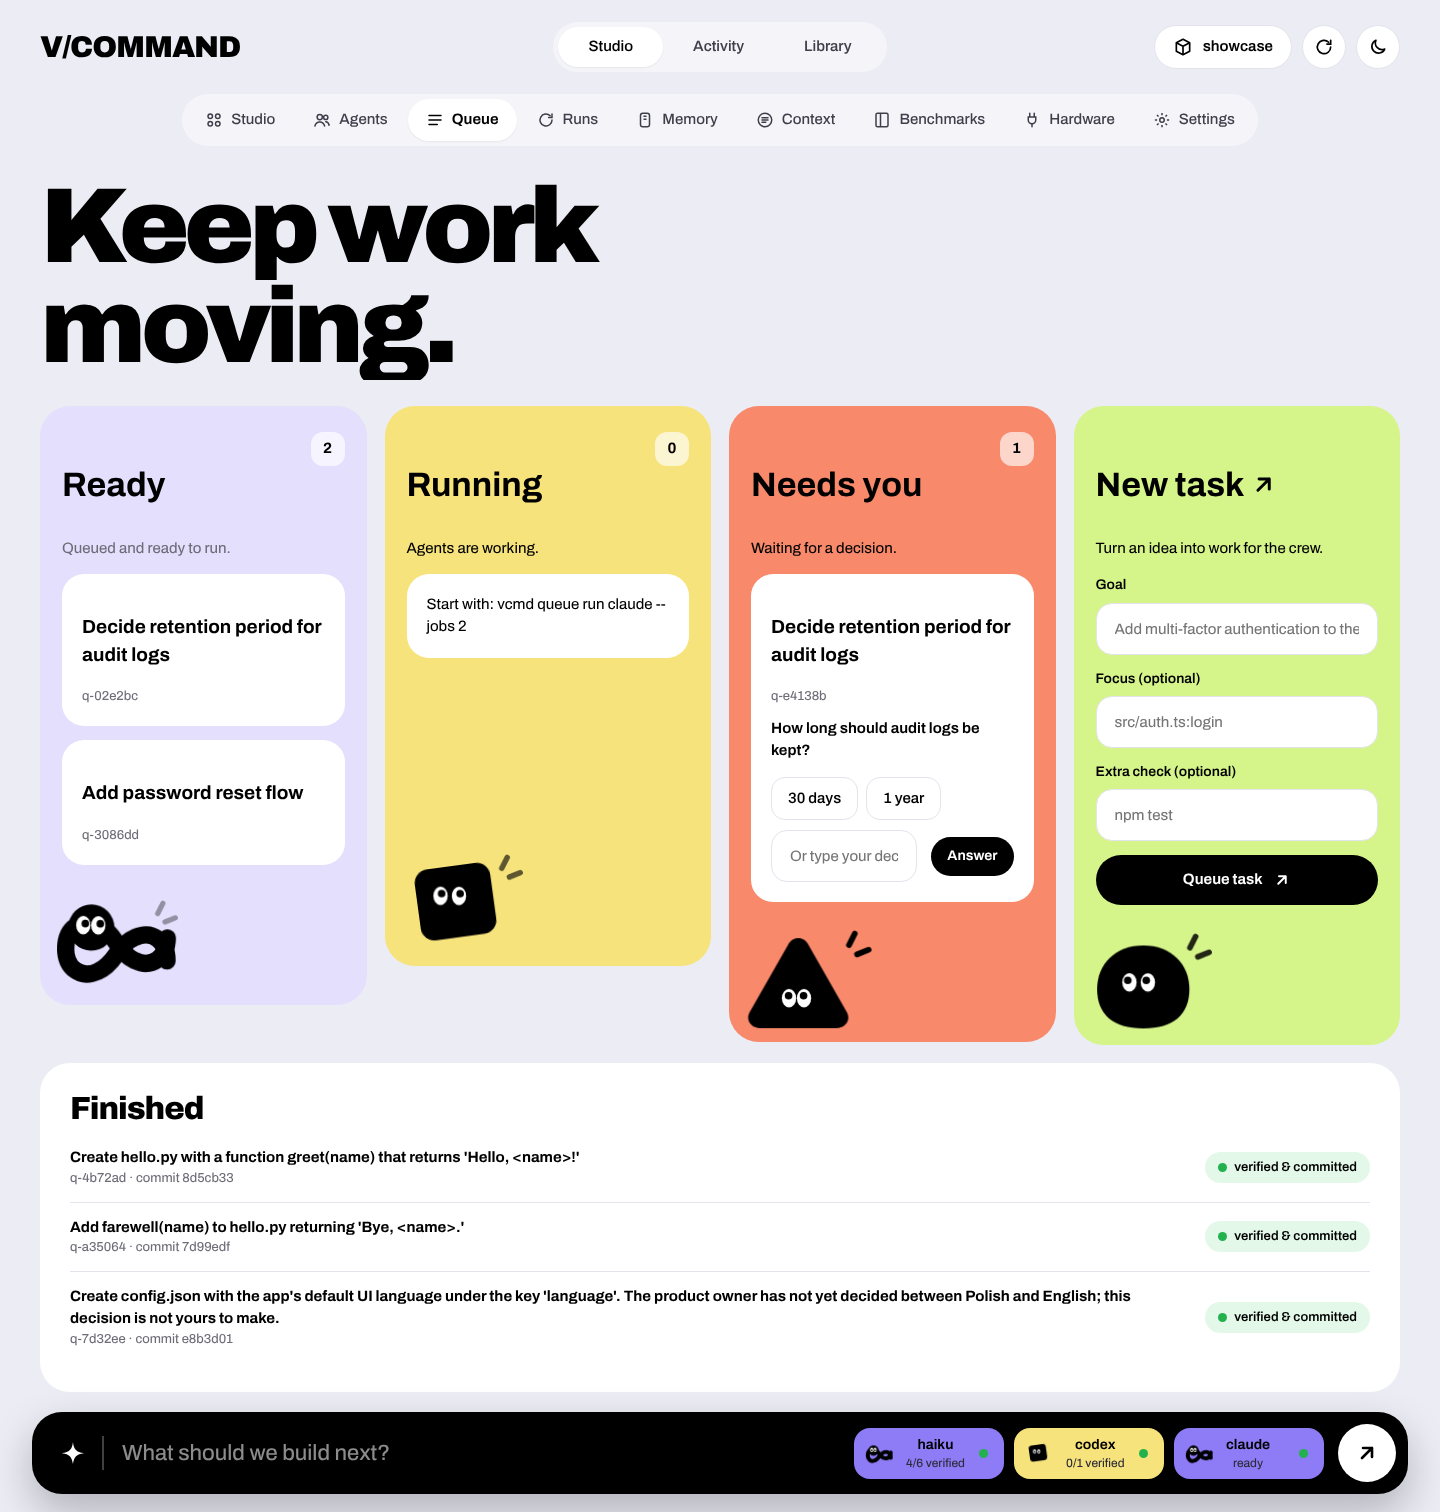
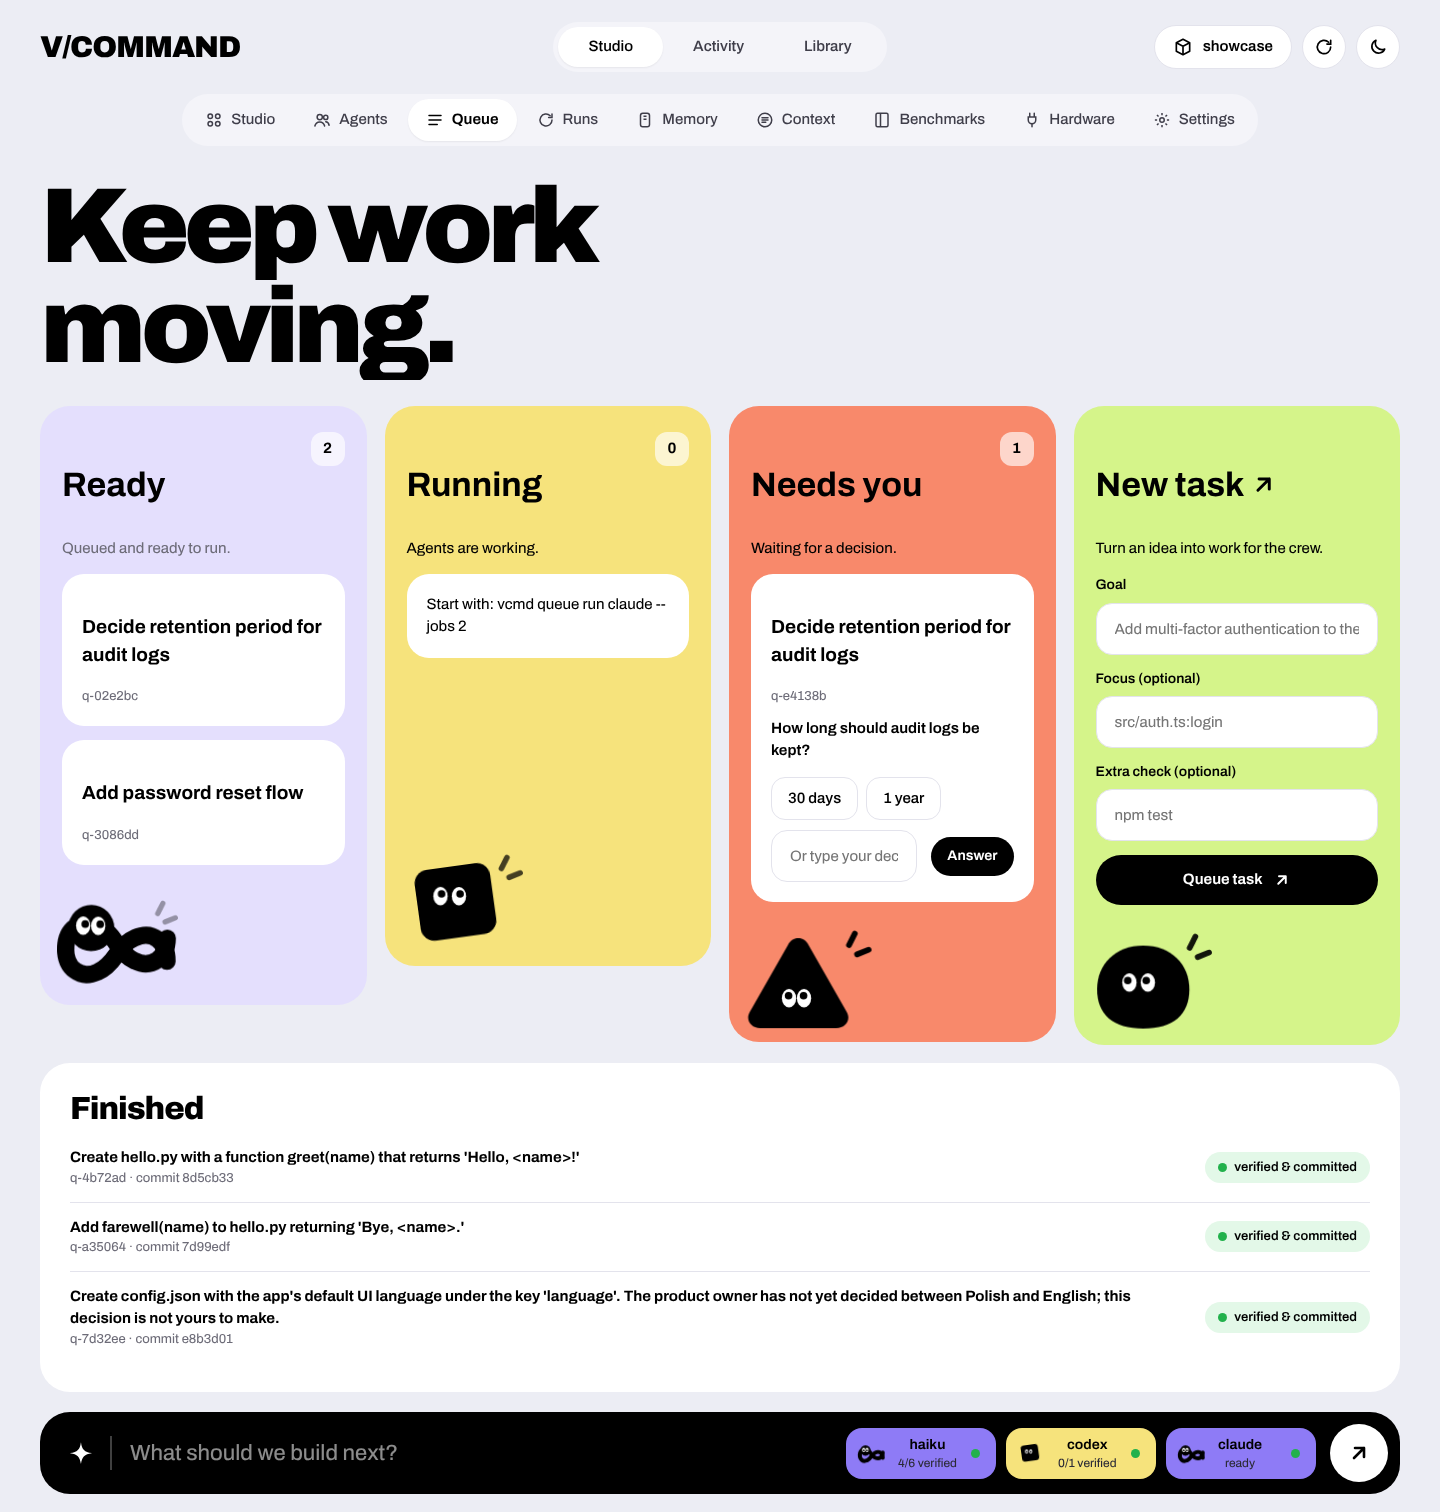
Dashboard: command bar is part of the page layout
The bar sits after the content with the same gutter as the cards (and
at the window bottom on short pages) instead of floating over cards.

Claude-Session: https://claude.ai/code/session_01919NHXcXeBBUUtrtmPhTqS

Changed region(s): [[0.0, 0.9325, 1.0, 1.0]]

diff --git a/src/vcommand/dashboard.html b/src/vcommand/dashboard.html
@@ -37,7 +37,7 @@
 * { box-sizing: border-box; }
 html { background: var(--page); }
 body { margin: 0; background: var(--page); color: var(--ink); font: 450 15px/1.45 "Archivo", system-ui, -apple-system, "Segoe UI", sans-serif;
-       -webkit-font-smoothing: antialiased; padding-bottom: 120px; }
+       -webkit-font-smoothing: antialiased; display: flex; flex-direction: column; min-height: 100vh; min-height: 100dvh; }
 button, input, select { font: inherit; color: inherit; }
 button { cursor: pointer; border: 0; background: none; }
 :focus-visible { outline: 3px solid var(--violet); outline-offset: 2px; border-radius: 10px; }
@@ -72,7 +72,7 @@ nav.tabs button[aria-selected="true"] { color: var(--ink); font-weight: 650; }
 nav.tabs .pill { position: absolute; top: 5px; bottom: 5px; left: 0; border-radius: 999px; background: var(--card);
                  box-shadow: 0 1px 2px rgba(0,0,0,.06); transition: transform 300ms var(--ease-in-out), width 300ms var(--ease-in-out); }
 
-main { max-width: 1520px; margin: 0 auto; padding: 0 40px; view-transition-name: page; }
+main { flex: 1 0 auto; width: 100%; max-width: 1520px; margin: 0 auto; padding: 0 40px; view-transition-name: page; }
 h1.hero { font-weight: 900; font-size: clamp(48px, 7.4vw, 112px); line-height: .88; letter-spacing: -0.055em; margin: 34px 0 26px; max-width: 14ch; }
 h1.hero .line { display: block; overflow: hidden; padding-bottom: .06em; }
 h1.hero .line > span { display: inline-block; }
@@ -166,9 +166,10 @@ label.lbl { display: block; font-weight: 600; font-size: 14px; margin: 0 0 7px; 
 .provider:last-child { border-bottom: 0; }
 
 /* ---------- command bar ---------- */
-.command { position: fixed; left: 50%; bottom: 18px; transform: translateX(-50%); width: min(1440px, calc(100% - 64px)); z-index: 20;
+/* part of the page, not floating: after the content, and pushed to the window bottom on short pages */
+.command { position: relative; flex: none; margin: 20px auto 18px; width: min(1440px, calc(100% - 80px)); z-index: 2;
            display: flex; align-items: center; gap: 14px; background: var(--bar); color: var(--bar-ink); border-radius: 30px; padding: 12px 12px 12px 26px;
-           box-shadow: 0 18px 40px rgba(10,10,20,.25); }
+           }
 .command .spark { width: 30px; height: 30px; flex: none; }
 .command .sep { width: 2px; height: 34px; background: rgba(255,255,255,.25); flex: none; }
 .command input { flex: 1; min-width: 0; background: transparent; border: 0; outline: 0; font-size: 22px; color: #fff; padding: 8px 4px; }
@@ -181,7 +182,7 @@ label.lbl { display: block; font-weight: 600; font-size: 14px; margin: 0 0 7px; 
 .go svg { width: 24px; height: 24px; }
 .go:active { transform: scale(0.94); }
 
-#toast { position: fixed; left: 50%; bottom: 112px; z-index: 30; padding: 13px 22px; border-radius: 999px; background: #000; color: #fff; font-weight: 600;
+#toast { position: fixed; left: 50%; bottom: 28px; z-index: 30; padding: 13px 22px; border-radius: 999px; background: #000; color: #fff; font-weight: 600;
          opacity: 0; transform: translate(-50%, 16px); pointer-events: none; transition: opacity 400ms ease, transform 400ms ease; }
 #toast.show { opacity: 1; transform: translate(-50%, 0); }
 #tip { position: fixed; z-index: 40; pointer-events: none; padding: 9px 12px; border-radius: 12px; background: #000; color: #fff; font-size: 13px;
@@ -249,12 +250,12 @@ label.lbl { display: block; font-weight: 600; font-size: 14px; margin: 0 0 7px; 
   .c3, .c4, .c5, .c6, .c7, .c8, .c12 { grid-column: span 12; }
   .card { padding: 22px; }
   .kanban, .grid2, .timeline { grid-template-columns: 1fr; }
-  .command { width: calc(100% - 24px); bottom: 10px; padding-left: 16px; }
+  .command { width: calc(100% - 32px); margin: 16px auto 12px; padding-left: 16px; }
   .command input { font-size: 17px; }
   .command .sep, .command .spark { display: none; }
   .bars .bar { grid-template-columns: 80px 1fr 70px; }
   .provider { grid-template-columns: 1fr; }
-  #toast { bottom: 96px; }
+  #toast { bottom: 20px; }
 }
 </style>
 </head>
